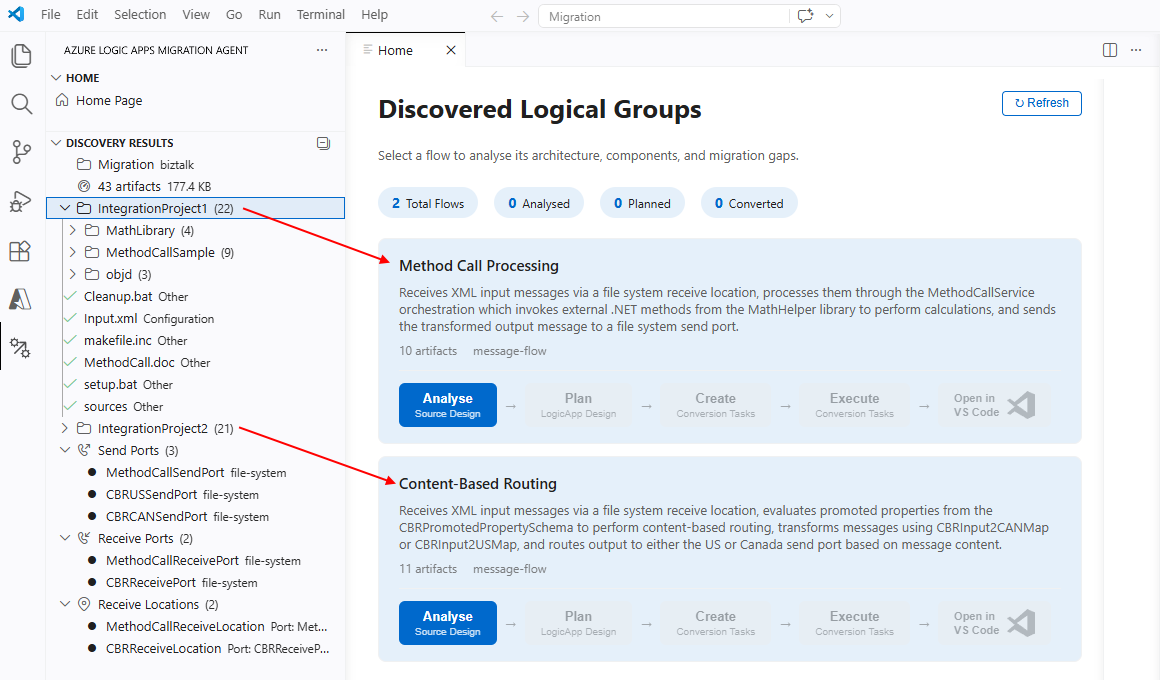
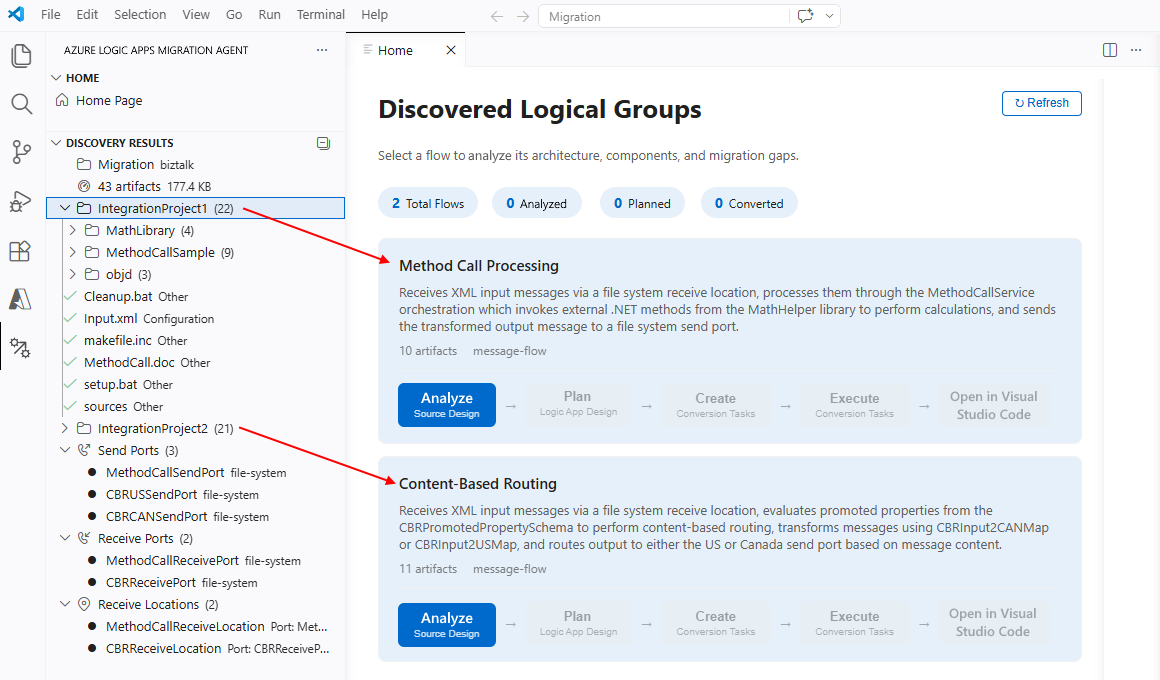
Fix typos in UX

diff --git a/articles/logic-apps/migration/migration-agent-quickstart.md b/articles/logic-apps/migration/migration-agent-quickstart.md
@@ -110,36 +110,38 @@ Generated logical flows don't always reflect a 1:1 relationship with legacy inte
 
 ### Step 3: Analyze source design
 
-After the migration agent completes scanning and shows the resulting logical flow groups, choose a flow group, and select **Analyze Source Design**.
+1. After the migration agent completes scanning and shows the resulting logical flow groups, on the **Home** tab, choose a logical flow group, and select **Analyze Source Design**.
 
-The agent performs the following tasks:
+   :::image type="content" source="./media/migration-agent-quickstart/analyze-source-design.png" alt-text="Screenshot that shows migration agent home page with Analyze Source Design selected.":::
 
-1. Builds an artifact inventory that includes orchestrations, schemas, maps, pipelines, and bindings.
+   The agent performs the following tasks:
 
-1. Generates a dependency graph that shows the relationships between artifacts.
+   1. Builds an artifact inventory that includes orchestrations, schemas, maps, pipelines, and bindings.
 
-   The migration agent runs the following tasks to generate the dependency graph:
+   1. Generates a dependency graph that shows the relationships between artifacts.
 
-   - Generate architecture (Mermaid) diagrams that show message flows and components.
-   - Identify missing dependencies.
-   - Perform a gap analysis for features.
-   - Detect integration patterns such as publish-subscribe, request-reply, and batch.
-   - Propose mappings for Azure Logic Apps or other services alternatives.
-   - Generate a discovery report based on the findings.
+      The migration agent runs the following tasks to generate the dependency graph:
 
-   After the migration agent successfully generates the dependency graph, the flow visualizer opens and shows the following interactive tabs:
+      - Generate architecture (Mermaid) diagrams that show message flows and components.
+      - Identify missing dependencies.
+      - Perform a gap analysis for features.
+      - Detect integration patterns such as publish-subscribe, request-reply, and batch.
+      - Propose mappings for Azure Logic Apps or other services alternatives.
+      - Generate a discovery report based on the findings.
+
+      After the migration agent successfully generates the dependency graph, the flow visualizer opens and shows the following interactive tabs:
    
-   - **Architecture Diagram**
-   - **Mesage Flow**
-   - **Components**
-   - **Missing Dependencies**
-   - **Gap Analysis**
-   - **Patterns**
-   - **Learn BizTalk**
+      - **Architecture Diagram**
+      - **Mesage Flow**
+      - **Components**
+      - **Missing Dependencies**
+      - **Gap Analysis**
+      - **Patterns**
+      - **Learn BizTalk**
 
-   :::image type="content" source="./media/migration-agent-quickstart/discovery-stage-analysis.png" alt-text="Screenshot that shows theflow visualizer with the results from the Discovery stage.":::
+      :::image type="content" source="./media/migration-agent-quickstart/discovery-stage-analysis.png" alt-text="Screenshot that shows theflow visualizer with the results from the Discovery stage.":::
 
-1. To review the analysis results, select the tab you want to review the related information.
+1. To review the analysis results, select a tab to review the related information.
 
 ### Step 4: Update or export the analysis
 
@@ -157,9 +159,12 @@ The agent performs the following tasks:
 
 ## Stage 2: Planning
 
-To continue with the Planning stage, you need to select the **Plan Logic App Design** button in any of the flows. The planning stage creates a migration roadmap.
+After you finish your analysis, start the Planning stage by creating a migration roadmap to follow. 
 
-:::image type="content" source="./media/migration-agent-quickstart/planning-stage-main.png" alt-text="Screenshot that shows the Planning stage with per-flow migration plans and action mappings.":::
+1. On the **Home** tab, choose the logical flow group you want, and select **Plan Logic App Design**.
+
+   :::image type="content" source="./media/migration-agent-quickstart/plan-logic-app-design.png" alt-text="Screenshot that shows migration agent home page with Plan Logic App Design selected.":::
+
 
 The `@migration-planner` agent generates per-flow migration plans that include:
 
@@ -170,9 +175,11 @@ The `@migration-planner` agent generates per-flow migration plans that include:
 - **Migration GAPS**: Components that don't have direct equivalents, along with recommended workarounds.
 - **Integration patterns**: Detected patterns for the integration flow.
 - **Summary**: High level overview of the proposed workflow.
-
 - **Effort estimates**: Estimated complexity and effort for each flow.
 - **Task plans**: Step-by-step conversion tasks for the next stage.
+
+   :::image type="content" source="./media/migration-agent-quickstart/planning-stage-main.png" alt-text="Screenshot that shows the Planning stage with per-flow migration plans and action mappings.":::
+
 
 Review each plan carefully. You can interact with the `@migration-planner` agent via Copilot chat to adjust plans, ask questions about specific mappings, or request alternative approaches. To continue with the conversion, select **Home Page** or return to the **Home** tab
 

diff --git a/articles/logic-apps/migration/migration-agent-overview.md b/articles/logic-apps/migration/migration-agent-overview.md
@@ -71,7 +71,7 @@ The migration agent includes the following core capabilities:
 
 The migration agent guides you through the following 5-stage migration workflow:
 
-:::image type="content" source="./media/migrate-logic-apps-migration-agent/migration-stages.png" alt-text="Diagram that shows the five migration stages: Discovery, Planning, Conversion, Validation, and Deployment.":::
+:::image type="content" source="./media/migration-agent-overview/migration-stages.png" alt-text="Diagram that shows the five migration stages: Discovery, Planning, Conversion, Validation, and Deployment.":::
 
 | Stage | Purpose |
 |-------|---------|
